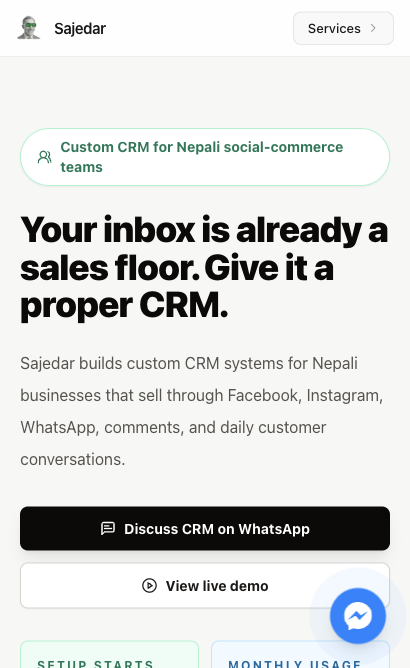
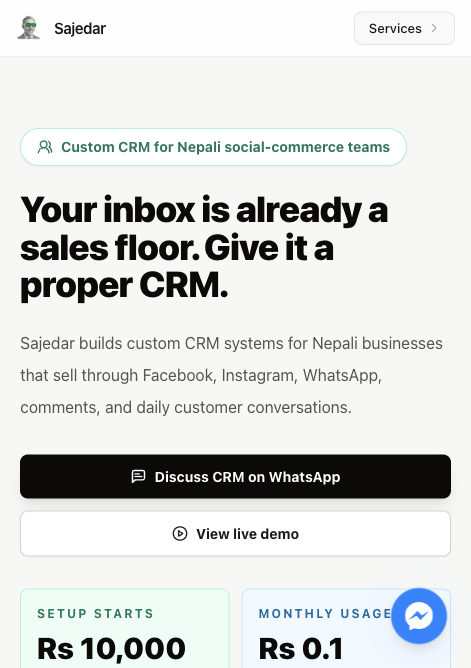
Reduce CRM hero preview size

diff --git a/src/app/crm/page.tsx b/src/app/crm/page.tsx
@@ -124,7 +124,7 @@ export default function CrmPage() {
 
       <main className="w-full pt-20">
         <section className="overflow-hidden border-b border-stone-200 bg-[#f7f8f6]">
-          <div className="mx-auto grid max-w-7xl gap-10 px-5 py-12 md:grid-cols-[0.88fr_1.12fr] md:items-center md:py-16 lg:px-8">
+          <div className="mx-auto grid max-w-7xl gap-10 px-5 py-12 md:grid-cols-[1.15fr_0.85fr] md:items-center md:py-16 lg:px-8">
             <div className="max-w-2xl">
               <div className="mb-6 inline-flex items-center gap-2 rounded-full border border-emerald-200 bg-white px-4 py-2 text-sm font-bold text-emerald-700 shadow-sm">
                 <UsersRound className="h-4 w-4" aria-hidden="true" />
@@ -170,7 +170,7 @@ export default function CrmPage() {
               </div>
             </div>
 
-            <div className="relative">
+            <div className="relative w-full max-w-[560px] justify-self-end">
               <div className="rounded-lg border border-stone-200 bg-white p-3 shadow-2xl shadow-stone-900/10">
                 <div className="mb-3 flex items-center justify-between px-2 py-1">
                   <div className="flex items-center gap-2">
@@ -183,15 +183,15 @@ export default function CrmPage() {
                     <ArrowRight className="h-3.5 w-3.5" aria-hidden="true" />
                   </Link>
                 </div>
-                <div className="h-[520px] overflow-hidden rounded-lg border border-stone-200 bg-[#f4f7fb]">
+                <div className="relative h-[360px] overflow-hidden rounded-lg border border-stone-200 bg-[#f4f7fb] sm:h-[400px] lg:h-[420px]">
                   <iframe
                     src="/crm/demo"
                     title="Sajedar CRM demo preview"
-                    className="h-[780px] w-full origin-top scale-[0.68] border-0 bg-[#f4f7fb] sm:scale-[0.78] lg:w-[1280px] lg:scale-[0.58]"
+                    className="absolute left-0 top-0 h-[780px] w-[760px] origin-top-left scale-[0.47] border-0 bg-[#f4f7fb] sm:w-[840px] sm:scale-50 lg:w-[1120px] lg:scale-[0.44]"
                   />
                 </div>
               </div>
-              <div className="mt-4 grid gap-3 sm:grid-cols-3">
+              <div className="mt-4 grid gap-3 sm:grid-cols-3 md:grid-cols-1 xl:grid-cols-3">
                 {demoHighlights.map((highlight) => (
                   <div key={highlight} className="flex gap-2 rounded-lg border border-stone-200 bg-white p-3 text-xs font-semibold leading-5 text-stone-600 shadow-sm">
                     <CheckCircle2 className="mt-0.5 h-4 w-4 flex-shrink-0 text-emerald-600" aria-hidden="true" />